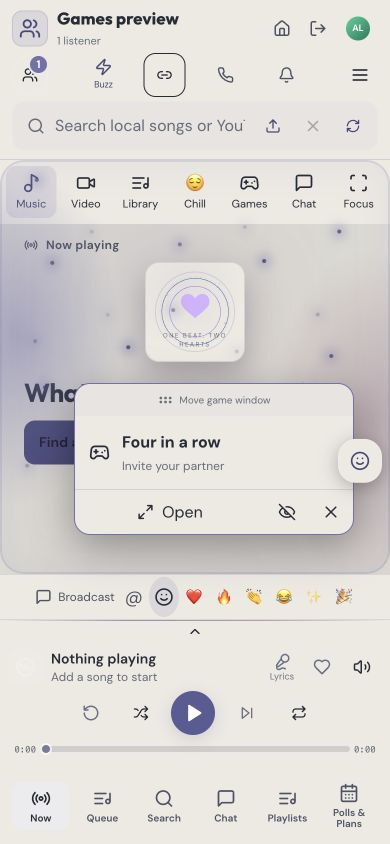
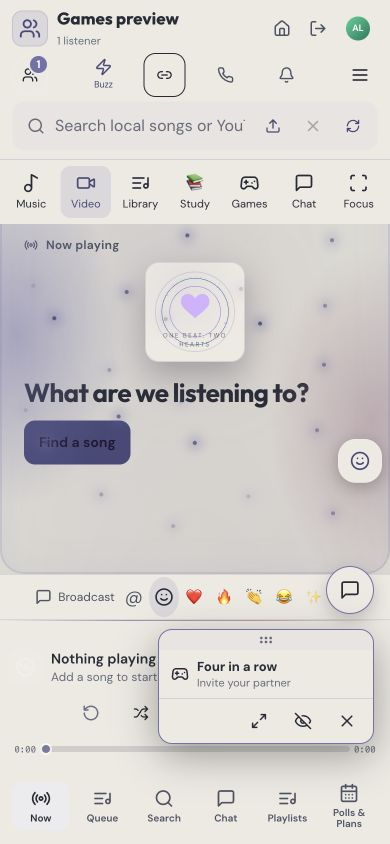
fix: synchronize YouTube resume and compact mobile game and chat controls

diff --git a/components/Room.tsx b/components/Room.tsx
@@ -229,6 +229,8 @@ export default function Room({ code, asHost, requestingJoin }: { code: string; a
   useEffect(()=>{try{setSidebarCollapsed(localStorage.getItem('kn_sidebar_collapsed')==='1');}catch{}},[]);
   const toggleSidebar=()=>setSidebarCollapsed(value=>{try{localStorage.setItem('kn_sidebar_collapsed',value?'0':'1');}catch{}return !value;});
   const [companionOpen, setCompanionOpen] = useState(true);
+  const [chatMinimized,setChatMinimized]=useState(false);
+  const minimizeChat=()=>{setChatMinimized(true);setCompanionOpen(false);setChatExpanded(false);setTab(value=>value==='chat'?'now':value);};
   const [playerExpanded,setPlayerExpanded]=useState(false);
   const goHome = useCallback(() => {
     setPlayerExpanded(true);
@@ -256,7 +258,7 @@ export default function Room({ code, asHost, requestingJoin }: { code: string; a
     setCommentsOpen(true);setPlayerExpanded(false);setSceneOnly(false);setTab("now");
     requestAnimationFrame(()=>requestAnimationFrame(()=>{window.dispatchEvent(new Event('konnectivity:show-comments'));const fields=Array.from(document.querySelectorAll<HTMLTextAreaElement>('.kn-song-comments-inline textarea'));fields.find(field=>field.getBoundingClientRect().height>0)?.focus();}));
   }
-  const openChatNotice=useCallback(()=>{setPlayerExpanded(false);setSceneOnly(false);setCompanionOpen(true);setTab('chat');setPane('chat');setUnread(0);setDismissedUnread(0);window.dispatchEvent(new Event('konnectivity:open-chat'));},[]);
+  const openChatNotice=useCallback(()=>{setChatMinimized(false);setPlayerExpanded(false);setSceneOnly(false);setCompanionOpen(true);setTab('chat');setPane('chat');setUnread(0);setDismissedUnread(0);window.dispatchEvent(new Event('konnectivity:open-chat'));},[]);
 
   const [toolsOpen,setToolsOpen]=useState(false),[playbackError,setPlaybackError]=useState<string|null>(null);
   const [guideOpen, setGuideOpen] = useState(false);
@@ -1284,10 +1286,7 @@ export default function Room({ code, asHost, requestingJoin }: { code: string; a
       setTab("queue");
       setCenter("history");
     },
-    chat: () => {
-      setTab("chat");
-      setPane("chat");
-    },
+    chat: openChatNotice,
     like: () => current?.id && likeTrack(current.id),
     mute: () => changeVolume(volume === 0 ? 1 : 0),
     help: () => setHelpOpen((v) => !v),
@@ -1510,6 +1509,7 @@ export default function Room({ code, asHost, requestingJoin }: { code: string; a
       />
 
       <Reactions incoming={lastReaction} />
+      {chatMinimized&&<button type="button" className="kn-chat-restore" aria-label="Restore chat" title="Open chat" onClick={openChatNotice}><MessageSquare size={21}/>{unread>0&&<b>{Math.min(unread,99)}</b>}</button>}
       {videoActive&&<PlaybackBoundary key={`preload:${queue[0]?.videoId||"none"}`} silent><NextVideoPreload track={current?.isShort?nextShort:queue[0]} room={code} token={uploadToken}/></PlaybackBoundary>}
       <PlayerMessageOverlay message={playerMessage} expanded={playerExpanded}/>
 
@@ -1627,7 +1627,7 @@ export default function Room({ code, asHost, requestingJoin }: { code: string; a
           <nav aria-label="Listening room">
             <button type="button" aria-label="Now playing" title="Now playing" aria-pressed={tab === "now"} onClick={() => { setSceneOnly(false); setTab("now"); }}><Radio size={19}/>Now playing</button>
             <button type="button" aria-label="Queue" title="Queue" aria-pressed={tab === "queue"} onClick={() => { setSceneOnly(false); setTab("queue"); }}><ListMusic size={19}/>Queue{queue.length > 0 && <span>{queue.length}</span>}</button>
-            <button type="button" aria-label="Conversation" title="Conversation" aria-pressed={companionOpen} onClick={() => {setSceneOnly(false);setTab("chat");setPane("chat");setCompanionOpen(true);window.dispatchEvent(new Event("konnectivity:open-chat"));}}><MessageSquare size={19}/>Conversation{unread > 0 && <span>{unread}</span>}</button>
+            <button type="button" aria-label="Conversation" title="Conversation" aria-pressed={companionOpen} onClick={() => {setChatMinimized(false);setSceneOnly(false);setTab("chat");setPane("chat");setCompanionOpen(true);window.dispatchEvent(new Event("konnectivity:open-chat"));}}><MessageSquare size={19}/>Conversation{unread > 0 && <span>{unread}</span>}</button>
           </nav>
           <nav aria-label="Room activities"><button type="button" aria-pressed={tab==="activities"} onClick={()=>openActivities("plans")}><CalendarDays size={19}/>Polls &amp; Plans</button></nav>
           <nav aria-label="Collections">
@@ -1718,9 +1718,9 @@ export default function Room({ code, asHost, requestingJoin }: { code: string; a
             onSeek={seekTo} onVideoChange={videoId=>emit(EVENTS.CONTROL_VIDEO_PLAY,{url:current.isShort?`https://www.youtube.com/shorts/${videoId}`:`https://www.youtube.com/watch?v=${videoId}`})}
             onMetadata={(duration, title, artist) => { if (!detachedHostDevice.current) emit(EVENTS.CONTROL_VIDEO_METADATA, { videoId: current.videoId, duration, title, artist }); }}
             getPosition={getMediaPosition} getRunning={getMediaRunning} syncKey={syncKey} onReadyChange={reportReady} onPlaybackSampler={setYouTubePlaybackSampler} onBuffer={updateDeviceBuffer} />}</></VideoStage></PlaybackBoundary>
+          {!current.isShort&&<VideoSuggestions track={current} onPlay={track=>emit(EVENTS.CONTROL_PLAY_NOW,{track,preferVideo:true})}/>}
         </div>}
         {!current&&lastVideo&&<section className="kn-video-finished"><button className="kn-video-finished-close" title="Close finished video" aria-label="Close finished video" onClick={()=>setLastVideo(null)}><X size={20}/></button><p>Video finished</p><h2>{lastVideo.title}</h2><button title="Replay video" aria-label="Replay video" onClick={()=>emit(EVENTS.CONTROL_PLAY_NOW,{track:lastVideo,preferVideo:true})}><RotateCcw size={24}/></button></section>}
-        {videoActive&&current&&!current.isShort&&<VideoSuggestions track={current} onPlay={track=>emit(EVENTS.CONTROL_PLAY_NOW,{track,preferVideo:true})}/>}
         {videoActive&&current&&(commentsOpen||lyricsOpen)&&<section className="kn-video-detail-panel" aria-label={commentsOpen?"Video comments":"Video lyrics"}>{commentsOpen?<SongComments compact onClose={()=>setCommentsOpen(false)} socket={socketRef.current} track={current} members={participants.filter(member=>member.id!==you)}/>:<Lyrics track={current} position={position} playing={isPlaying&&!syncHolding&&!preparing}/>}</section>}
         <RoomBackground videoId={current?.videoId} mediaQuery={mediaQuery} artwork={current?.art || current?.thumbnail} />
         <RoomLights position={position} playing={isPlaying&&!syncHolding&&!preparing}/>{sceneOnly&&!(lyricsOpen&&!commentsOpen)&&<AmbientVisualizer room playing={isPlaying&&!syncHolding&&!preparing}/>}
@@ -1823,7 +1823,7 @@ export default function Room({ code, asHost, requestingJoin }: { code: string; a
 
           {/* ── column 3: the people ── */}
           <Panel
-            className={cn(tab === "chat" ? "flex flex-1" : "hidden", "kn-community-surface min-h-0 overflow-hidden md:gap-4")}
+            className={cn(chatMinimized?"!hidden":tab === "chat" ? "flex flex-1" : "hidden", "kn-community-surface min-h-0 overflow-hidden md:gap-4")}
           >
             <div className="room-conversation-header">
               <nav className="room-conversation-tabs" aria-label="Conversation views">
@@ -1860,7 +1860,8 @@ export default function Room({ code, asHost, requestingJoin }: { code: string; a
               onRead={markChatRead}
               mediaQuery={mediaQuery}
               mobileOpen={tab==="chat"}
-              onMobileClose={()=>setTab("now")}
+              onMinimize={minimizeChat}
+              onMobileClose={minimizeChat}
               onExpandedChange={setChatExpanded}
               onTyping={onTyping}
               statuses={statuses}
@@ -1907,7 +1908,7 @@ export default function Room({ code, asHost, requestingJoin }: { code: string; a
       </div>
       {renderPlayer()}
       <div className="kn-room-dock sw-safe-x relative z-40 shrink-0 border-t border-white/8 bg-[color-mix(in_srgb,var(--bg)_88%,transparent)] px-4 py-2 backdrop-blur-xl md:hidden">
-        <TabBar tab={libraryOpen&&librarySection==="playlists"?"playlists":toolsOpen?"settings":tab} setTab={(value) => value === "settings" ? setToolsOpen(true) : value === "playlists" ? openLibrary("playlists") : value === "search" ? openSearch() : value === "activities" ? openActivities("plans") : (window.dispatchEvent(new Event("konnectivity:home")),setSceneOnly(false),setTab(value))} queueCount={queue.length} unread={unread} />
+        <TabBar tab={libraryOpen&&librarySection==="playlists"?"playlists":toolsOpen?"settings":tab} setTab={(value) => value === "settings" ? setToolsOpen(true) : value === "playlists" ? openLibrary("playlists") : value === "search" ? openSearch() : value === "activities" ? openActivities("plans") : value === "chat" ? openChatNotice() : (window.dispatchEvent(new Event("konnectivity:home")),setSceneOnly(false),setTab(value))} queueCount={queue.length} unread={unread} />
       </div>
     </div>
   );

diff --git a/components/ChatPanel.tsx b/components/ChatPanel.tsx
@@ -2,7 +2,7 @@
 import EmojiPicker from "./EmojiPicker";
 
 import { memo, useEffect, useRef, useState } from "react";
-import { MoreHorizontal, Download, Film, ImagePlus, Images, Lock, Plus, Reply, Pencil, Search, Video, MapPin, X, MessageSquare, Send, Smile, Maximize2, Minimize2, Zap, Phone, Users } from "lucide-react";
+import { ChevronDown, MoreHorizontal, Download, Film, ImagePlus, Images, Lock, Plus, Reply, Pencil, Search, Video, MapPin, X, MessageSquare, Send, Smile, Maximize2, Minimize2, Zap, Phone, Users } from "lucide-react";
 import VoiceNoteRecorder from "./VoiceNoteRecorder";
 import VoiceMessage from "./VoiceMessage";
 import {normalizeEmojiText} from "@/lib/emoji-text";
@@ -41,7 +41,7 @@ function ChatPanel({
   aiDj,
   djTyping,
   onUploadImage, onUploadVideo, mediaQuery, onExpandedChange, receipts, onRead,
-  onSend, onEdit, onReact, onRecordingChange, onLiveLocation, canShareLocation, mobileOpen, onMobileClose,
+  onSend, onEdit, onReact, onRecordingChange, onLiveLocation, canShareLocation, mobileOpen, onMobileClose, onMinimize,
   onTyping,
   statuses,
   muted,
@@ -53,7 +53,7 @@ function ChatPanel({
   canUploadPhotos: boolean;
   canUploadVideos: boolean;
   canSharePrivately: boolean;
-  mobileOpen?:boolean; onMobileClose?:()=>void;
+  mobileOpen?:boolean; onMobileClose?:()=>void; onMinimize?:()=>void;
   onExpandedChange?: (expanded:boolean)=>void;
   /** nick → presence, so a name in the thread says whether they're still here. */
   statuses?: Record<string, PresenceStatus>;
@@ -137,7 +137,7 @@ function ChatPanel({
   const [hidden,setHidden]=useState(false);
   const [expanded, setExpanded] = useState(false);
   useEffect(()=>{onExpandedChange?.(expanded);},[expanded,onExpandedChange]);
-  useEffect(()=>{const open=()=>setExpanded(true);window.addEventListener('konnectivity:open-chat',open);return()=>window.removeEventListener('konnectivity:open-chat',open);},[]);
+  useEffect(()=>{const open=()=>{setHidden(false);followRef.current=true;};window.addEventListener('konnectivity:open-chat',open);return()=>window.removeEventListener('konnectivity:open-chat',open);},[]);
   const scrollRef = useRef<HTMLDivElement | null>(null);
   const followRef = useRef(true);
   const inputRef = useRef<HTMLTextAreaElement | null>(null);
@@ -294,7 +294,7 @@ function ChatPanel({
     return () => { observer.disconnect(); document.removeEventListener("visibilitychange", refresh); };
   }, [chat, hidden, expanded, mobileOpen, onRead]);
   useEffect(()=>{if(mobileOpen)setHidden(false);},[mobileOpen]);
-  if(hidden&&!expanded)return <button className="kn-background-upload" onClick={()=>setHidden(false)}><MessageSquare size={15}/>Open chat</button>;
+  if(hidden&&!expanded)return <button type="button" className="kn-chat-restore" aria-label="Restore chat" title="Open chat" onClick={()=>setHidden(false)}><MessageSquare size={20}/></button>;
   const content = (
     <div data-room-chat data-mobile-open={mobileOpen&&!expanded} className={cn("flex min-h-0 flex-col overflow-hidden", expanded ? "w-full flex-1"  : className)}>
       <div className="studio-chat-heading shrink-0"><SectionHeader
@@ -314,7 +314,8 @@ function ChatPanel({
             <button type="button" onClick={event=>openPhotos("",event.currentTarget)}><Images size={17}/>Shared photos</button>
           </div></details>
           <button type="button" onClick={()=>{followRef.current=true;setExpanded(v=>!v);}} aria-label={expanded?"Collapse chat":"Expand chat"} className="kn-chat-expand">{expanded?<Minimize2 size={18}/>:<Maximize2 size={18}/>}</button>
-          <button type="button" className="kn-chat-close" aria-label="Close chat" onClick={()=>expanded?setExpanded(false):mobileOpen&&matchMedia("(max-width:767px)").matches?onMobileClose?.():setHidden(true)}><X size={18}/></button>
+          <button type="button" aria-label="Minimize chat" title="Minimize chat" onClick={()=>{setExpanded(false);if(onMinimize)onMinimize();else setHidden(true);}}><ChevronDown size={18}/></button>
+          <button type="button" className="kn-chat-close" aria-label="Close chat" onClick={()=>{setExpanded(false);if(onMinimize)onMinimize();else if(mobileOpen&&matchMedia("(max-width:767px)").matches)onMobileClose?.();else setHidden(true);}}><X size={18}/></button>
         </div>}
 
       />{searchOpen&&<div className="mb-2 flex items-center gap-2">

diff --git a/components/YouTubePlayer.tsx b/components/YouTubePlayer.tsx
@@ -36,6 +36,7 @@ export default function YouTubePlayer(props:Props) {
  const mount=useRef<HTMLDivElement>(null),player=useRef<Player|null>(null),ready=useRef(false),localReady=useRef(false);
  const actualSample=useRef<{position:number;time:number}|null>(null),pendingSeek=useRef(0),requestedAt=useRef(performance.now()),nativeVideo=useRef("");
  const volumeState=useRef<any>({applied:0,audible:false,prop:null,pending:null,until:0});
+ const observedState=useRef<number|null>(null);
  const transportCommand=useRef<{state:number;until:number}>({state:-1,until:0}),nativeIntent=useRef<{playing:boolean;until:number}|null>(null);
  const commandTransport=(p:Player,playing:boolean)=>{const state=playing?1:2;if(p.getPlayerState()===state)return;transportCommand.current={state,until:performance.now()+2000};if(playing)p.playVideo();else p.pauseVideo();};
  const previousTarget=useRef<{position:number;time:number}|null>(null);
@@ -77,10 +78,12 @@ export default function YouTubePlayer(props:Props) {
     onAutoplayBlocked:()=>{setBlocked(true);localReady.current=false;latest.current.onReadyChange(false,latest.current.syncKey);},
     onStateChange:(e:{data:number})=>{
      if(!ready.current)return;
+     observedState.current=e.data;
      const now=performance.now(),s=latest.current,data=p.getVideoData();
      // A recommendation that changes the video inside the embed becomes room media.
      if(data.video_id&&data.video_id!==s.videoId&&now-requestedAt.current>1000){if(nativeVideo.current!==data.video_id){nativeVideo.current=data.video_id;s.onVideoChange(data.video_id);}return;}
-     const intent=nativeTransportIntent({state:e.data,desiredPlaying:s.desiredPlaying,holding:s.holding,ready:aligned.current,command:transportCommand.current.state,commandUntil:transportCommand.current.until,now,lastSeek:lastSeek.current,requestedAt:requestedAt.current});
+     const intent=nativeTransportIntent({state:e.data,desiredPlaying:s.desiredPlaying,holding:s.holding,ready:ready.current,command:transportCommand.current.state,commandUntil:transportCommand.current.until,now,lastSeek:lastSeek.current,requestedAt:requestedAt.current});
+     if(e.data===transportCommand.current.state||intent!==null)transportCommand.current={state:-1,until:0};
      if(intent!==null){nativeIntent.current={playing:intent,until:now+2500};s.onPlaying(intent);}
      if(e.data===1){setBlocked(false);bufferSince.current=0;localReady.current=true;latest.current.onReadyChange(true,latest.current.syncKey);}
      if(e.data===3 && !bufferSince.current)bufferSince.current=performance.now();
@@ -109,6 +112,8 @@ export default function YouTubePlayer(props:Props) {
   const tick=()=>{
    const p=player.current;if(!p||!ready.current)return;
    const s=latest.current,state=p.getPlayerState(),now=performance.now(),target=s.getPosition(),running=s.getRunning();
+   // Polling is a fallback for browsers which miss/delay the iframe state event.
+   if(!nativeIntent.current&&state!==observedState.current){observedState.current=state;const intent=nativeTransportIntent({state,desiredPlaying:s.desiredPlaying,holding:s.holding,ready:ready.current,command:transportCommand.current.state,commandUntil:transportCommand.current.until,now,lastSeek:lastSeek.current,requestedAt:requestedAt.current});if(state===transportCommand.current.state||intent!==null)transportCommand.current={state:-1,until:0};if(intent!==null){nativeIntent.current={playing:intent,until:now+2500};s.onPlaying(intent);}}
    const waiting=nativeIntent.current;
    if(waiting){if(s.desiredPlaying===waiting.playing||now>waiting.until)nativeIntent.current=null;else return;}
    const duration = p.getDuration();

diff --git a/components/FloatingGame.tsx b/components/FloatingGame.tsx
@@ -3,5 +3,5 @@ import {useRef} from 'react';
 import {Gamepad2,EyeOff,X,GripHorizontal,Maximize2} from 'lucide-react';
 export default function FloatingGame({name,status,onOpen,onHide,onQuit}:{name:string;status:string;onOpen:()=>void;onHide:()=>void;onQuit:()=>void}){
  const windowRef=useRef<HTMLDivElement>(null),offset=useRef({x:0,y:0}),drag=useRef<{x:number;y:number;ox:number;oy:number}|null>(null);
- return <div ref={windowRef} className="kn-game-floating" role="region" aria-label="Minimized game"><div className="kn-game-floating-drag" onPointerDown={e=>{if(e.button!==0)return;e.currentTarget.setPointerCapture(e.pointerId);drag.current={x:e.clientX,y:e.clientY,ox:offset.current.x,oy:offset.current.y};}} onPointerMove={e=>{const d=drag.current,el=windowRef.current;if(!d||!el)return;const rect=el.getBoundingClientRect();let x=d.ox+e.clientX-d.x,y=d.oy+e.clientY-d.y;const baseX=rect.left-offset.current.x,baseY=rect.top-offset.current.y;x=Math.max(8-baseX,Math.min(innerWidth-baseX-rect.width-8,x));y=Math.max(8-baseY,Math.min(innerHeight-baseY-rect.height-8,y));offset.current={x,y};el.style.transform=`translate3d(${x}px,${y}px,0)`;}} onPointerUp={()=>{drag.current=null;}} onPointerCancel={()=>{drag.current=null;}}><GripHorizontal size={16}/><span>Move game window</span></div><div className="kn-game-floating-main"><Gamepad2 size={21}/><span><strong>{name}</strong><small>{status}</small></span></div><div className="kn-game-floating-actions"><button type="button" onClick={onOpen}><Maximize2 size={17}/>Open</button><button type="button" aria-label="Hide game window" onClick={onHide}><EyeOff size={18}/></button><button type="button" aria-label="Quit game" onClick={onQuit}><X size={19}/></button></div></div>;
+ return <div ref={windowRef} className="kn-game-floating" role="region" aria-label="Minimized game"><div className="kn-game-floating-drag" title="Drag game window" aria-label="Drag game window" onPointerDown={e=>{if(e.button!==0)return;e.currentTarget.setPointerCapture(e.pointerId);drag.current={x:e.clientX,y:e.clientY,ox:offset.current.x,oy:offset.current.y};}} onPointerMove={e=>{const d=drag.current,el=windowRef.current;if(!d||!el)return;const rect=el.getBoundingClientRect();let x=d.ox+e.clientX-d.x,y=d.oy+e.clientY-d.y;const baseX=rect.left-offset.current.x,baseY=rect.top-offset.current.y;x=Math.max(8-baseX,Math.min(innerWidth-baseX-rect.width-8,x));y=Math.max(8-baseY,Math.min(innerHeight-baseY-rect.height-8,y));offset.current={x,y};el.style.transform=`translate3d(${x}px,${y}px,0)`;}} onPointerUp={()=>{drag.current=null;}} onPointerCancel={()=>{drag.current=null;}}><GripHorizontal size={16}/></div><div className="kn-game-floating-main"><Gamepad2 size={21}/><span><strong>{name}</strong><small>{status}</small></span></div><div className="kn-game-floating-actions"><button type="button" aria-label="Expand game" title="Expand game" onClick={onOpen}><Maximize2 size={17}/></button><button type="button" aria-label="Hide game window" title="Hide game window" onClick={onHide}><EyeOff size={18}/></button><button type="button" aria-label="Quit game" title="Quit game" onClick={onQuit}><X size={19}/></button></div></div>;
 }

diff --git a/app/reference-ui.css b/app/reference-ui.css
@@ -979,3 +979,11 @@ body:has(.kn-groups-app){background:#071019;color:#e7eef7;}
 /* Leave the native YouTube caption, quality, volume and fullscreen controls touchable. */
 .kn-short-gesture-surface{top:52px!important;bottom:64px!important;height:auto!important;}
 .kn-invite-refresh{display:grid;gap:12px;margin-top:18px;padding-top:16px;border-top:1px solid var(--kn-border);}
+/* Keep mode tabs fixed while content below scrolls. */
+.studio-room main>.room-media-toolbar{position:sticky!important;top:0!important;z-index:25!important;align-self:start;flex-shrink:0!important;width:100%;max-width:100%;overflow:hidden!important;overscroll-behavior:none;}
+.kn-game-floating{width:min(216px,calc(100vw - 24px));border-radius:14px;}.kn-game-floating-drag{min-height:20px;height:20px;}.kn-game-floating-main{padding:8px 12px;gap:8px;}.kn-game-floating-main strong{font-size:13px;line-height:17px;}.kn-game-floating-main small{font-size:11px;line-height:14px;margin-top:1px;}.kn-game-floating-main>svg{width:18px;height:18px;}.kn-game-floating-actions{justify-content:flex-end;padding:0 4px;}.kn-game-floating-actions button:first-child{flex:0;}.kn-game-floating-actions button{width:44px;height:44px;padding:0;}
+.kn-chat-restore{position:fixed!important;right:16px;bottom:calc(110px + env(safe-area-inset-bottom));z-index:44;display:grid!important;place-items:center;width:48px!important;height:48px!important;padding:0!important;border:1px solid var(--accent)!important;border-radius:50%!important;background:var(--kn-panel-b,var(--bg))!important;color:var(--ink)!important;box-shadow:0 6px 18px #0003;}.kn-chat-restore b{position:absolute;right:-3px;top:-5px;background:var(--accent);color:var(--primary-foreground);border-radius:12px;font-size:11px;min-width:19px;line-height:19px;text-align:center;}
+.kn-chat-restore{bottom:calc(230px + env(safe-area-inset-bottom));}
+.studio-room main.sw-watching>.sw-video-stage{flex-direction:column!important;align-items:stretch!important;justify-content:flex-start!important;min-width:0!important;}
+.studio-room main.sw-watching>.sw-video-stage>.kn-video-stage{flex:0 0 auto!important;width:100%!important;min-width:0!important;max-width:100%!important;}
+.studio-room main.sw-watching>.sw-video-stage>.kn-video-suggestions{flex:0 0 auto;width:100%;min-width:0;}
